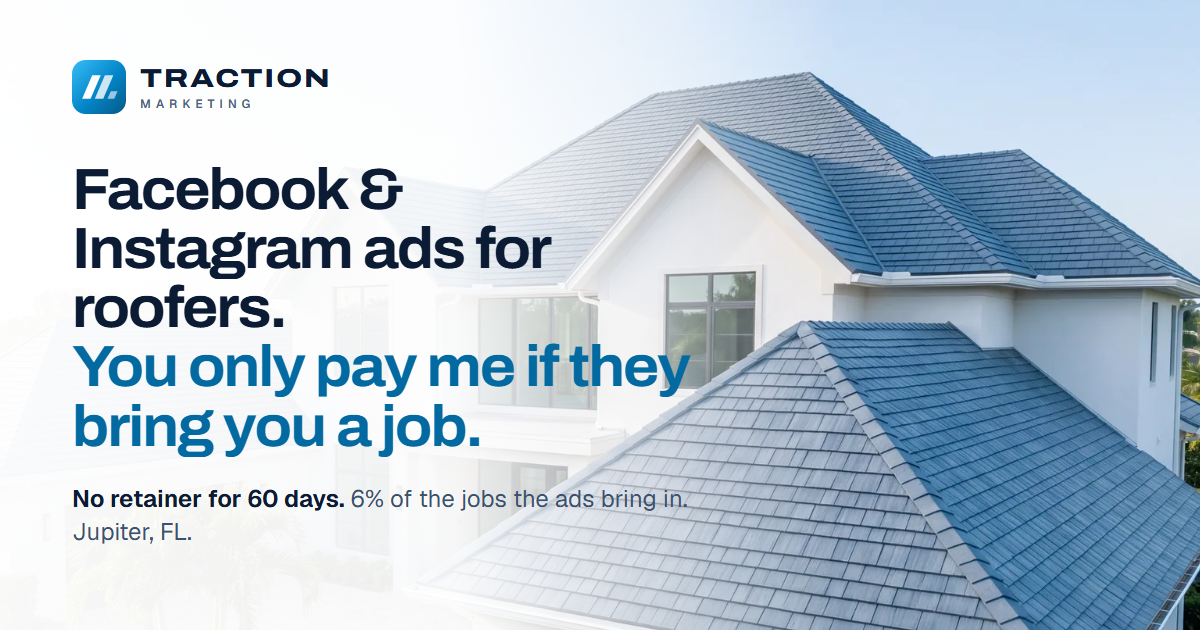
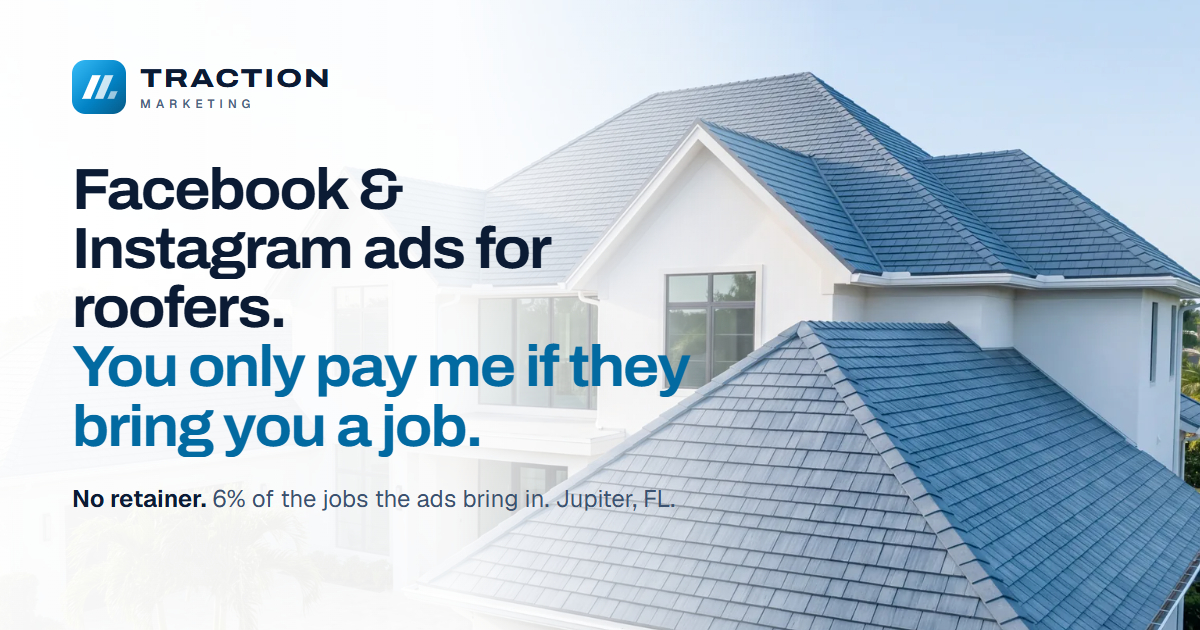
Pricing: remove the 60-day framing and the after-day-60 retainer

Changed region(s): [[0.1542, 0.754, 0.5858, 0.8143], [0.0617, 0.8143, 0.1542, 0.8746]]

diff --git a/index.html b/index.html
@@ -4,7 +4,7 @@
 <meta charset="utf-8">
 <meta name="viewport" content="width=device-width, initial-scale=1, viewport-fit=cover">
 <title>Traction Marketing | Facebook &amp; Instagram Ads for Roofing Companies</title>
-<meta name="description" content="Traction Marketing runs Meta ads (Facebook and Instagram) for roofing companies. No retainer for the first 60 days, just 6% of the jobs the ads bring you. Based in Jupiter, Florida.">
+<meta name="description" content="Traction Marketing runs Meta ads (Facebook and Instagram) for roofing companies. No retainer, no setup fee, just 6% of the jobs the ads bring you. Based in Jupiter, Florida.">
 <link rel="canonical" href="https://thetractionmedia.com/">
 <link rel="icon" href="/favicon.svg" type="image/svg+xml">
 <link rel="apple-touch-icon" href="/apple-touch-icon.png">
@@ -22,7 +22,7 @@
 <meta property="og:type" content="website">
 <meta property="og:site_name" content="Traction Marketing">
 <meta property="og:title" content="Facebook &amp; Instagram ads for roofers. You only pay me if they bring you a job.">
-<meta property="og:description" content="No retainer for the first 60 days. Just 6% of the jobs the ads bring in. Based in Jupiter, Florida.">
+<meta property="og:description" content="No retainer, no setup fee. Just 6% of the jobs the ads bring in. Based in Jupiter, Florida.">
 <meta property="og:url" content="https://thetractionmedia.com/">
 <meta property="og:image" content="https://thetractionmedia.com/og-image.png">
 <meta property="og:image:width" content="1200">
@@ -666,12 +666,11 @@ html:not(.js) .presets, html:not(.js) .range, html:not(.js) .calc-job-row { disp
           </div>
         </div>
         <div class="paper terms" data-sc-in data-sc-spotlight>
-          <h2 class="terms-title">Free for the first 60 days.</h2>
+          <h2 class="terms-title">Free. I only get paid on jobs.</h2>
           <dl>
             <div class="terms-row"><dt>Retainer and setup</dt><dd class="fig">$0</dd><dd class="say">No retainer, no setup fee.</dd></div>
             <div class="terms-row"><dt>My only cut</dt><dd class="fig">6%</dd><dd class="say">6% of the jobs the ads bring you. No jobs, no pay.</dd></div>
             <div class="terms-row"><dt>The ad budget</dt><dd class="fig">Yours</dd><dd class="say">You set it and pay it straight to Meta.</dd></div>
-            <div class="terms-row"><dt>After day 60</dt><dd class="fig">$2,000/mo</dd><dd class="say">Only if you want to keep going, plus the same 6%. Nothing renews on its own.</dd></div>
           </dl>
           <a class="text-link" href="#pricing">See the full pricing<svg class="icon ic-arrow" aria-hidden="true"><use href="#i-arrow"/></svg></a>
         </div>
@@ -834,18 +833,14 @@ html:not(.js) .presets, html:not(.js) .range, html:not(.js) .calc-job-row { disp
         <div class="paper est-paper" data-est-paper data-play="0.3" data-sc-spotlight>
           <p class="paper-head"><span>Estimate</span><span>Traction Marketing &rarr; your roofing company</span></p>
           <div class="pline" style="--i:0">
-            <span class="pline-k">Days 1 to 60<small>$0 retainer. No setup fee.</small></span>
+            <span class="pline-k">My only cut<small>$0 retainer. No setup fee.</small></span>
             <span class="pline-v big">6%<small>of jobs the ads bring you</small></span>
           </div>
           <div class="pline" style="--i:1">
-            <span class="pline-k">After day 60, only if you want to keep going<small>Nothing renews on its own.</small></span>
-            <span class="pline-v">$2,000&nbsp;/&nbsp;month<small>+ the same 6%</small></span>
-          </div>
-          <div class="pline" style="--i:2">
             <span class="pline-k">The ad budget<small>The one cost on your side, separate from my 6%.</small></span>
             <span class="pline-v">Yours<small>paid to Meta</small></span>
           </div>
-          <div class="pline" id="calc" style="--i:3">
+          <div class="pline" id="calc" style="--i:2">
             <span class="pline-k">What 6% looks like<small>Pick a job size and see my cut.</small></span>
             <span class="pline-v"><span class="calc-label">My 6%</span><output class="calc-fee" id="fee-out" for="job" aria-live="off">$720</output></span>
             <div class="calc-job-row"><label class="calc-label" for="job">Job from an ad</label><output class="calc-job" id="job-out" for="job" aria-live="off">$12,000</output></div>
@@ -873,16 +868,12 @@ html:not(.js) .presets, html:not(.js) .range, html:not(.js) .calc-job-row { disp
   </section>
 
   <!-- 7 · ASK ME: the details in plain words, who I am, and what roofers usually ask -->
-  <section class="ask" id="about" data-sc-act="flow" data-sc-drift="#F3F8FE" data-slip-stamp="cut after">
+  <section class="ask" id="about" data-sc-act="flow" data-sc-drift="#F3F8FE" data-slip-stamp="cut">
     <div class="sc-wrap">
       <div class="fine" data-sc-in data-sc-stagger="60">
         <div class="fine-row">
-          <h3>Days 1 to 60</h3>
+          <h3>No jobs, no pay</h3>
           <p>If the ads don’t bring you a job, I don’t make a dollar. You don’t have to take my word for anything: the ads have to earn it.</p>
-        </div>
-        <div class="fine-row">
-          <h3>After day 60, only if you want to keep going</h3>
-          <p>If it’s working and you want to keep going, this is what it costs. If it’s not, you just stop. By then you’ll have 60 days of real numbers to decide with.</p>
         </div>
         <div class="fine-row">
           <h3>The ad budget</h3>
@@ -930,10 +921,6 @@ html:not(.js) .presets, html:not(.js) .range, html:not(.js) .calc-job-row { disp
             <div class="answer"><p>You decide. At the sit-down we work it out from your own numbers: what a job is worth to you and how many more you can take on. You can raise it, lower it or stop it anytime.</p></div>
           </details>
           <details>
-            <summary><span class="q">What happens after 60 days?</span><span class="pm" aria-hidden="true"></span></summary>
-            <div class="answer"><p>If it’s working and you want to keep going, it’s $2,000 a month plus the same 6%. If it’s not, you just stop. Nothing renews automatically. It only continues if you say so.</p></div>
-          </details>
-          <details>
             <summary><span class="q">I tried Facebook ads before and got junk leads.</span><span class="pm" aria-hidden="true"></span></summary>
             <div class="answer"><p>That happens a lot, and it’s usually the form. The default one is so easy that people tap through it without meaning it. I use the version that makes them review their info and answer a couple of questions about the roof. You get fewer leads, but they’re real.</p></div>
           </details>
@@ -973,7 +960,7 @@ html:not(.js) .presets, html:not(.js) .range, html:not(.js) .calc-job-row { disp
         </div>
         <div class="paper sign-slip" role="group" data-play="0.5" data-sc-spotlight aria-label="Your estimate, totalled">
           <p class="paper-head"><span>Estimate</span><span>Total</span></p>
-          <div class="pline"><span class="pline-k">Retainer, days 1 to 60</span><span class="pline-v">$0</span></div>
+          <div class="pline"><span class="pline-k">Retainer</span><span class="pline-v">$0</span></div>
           <div class="pline"><span class="pline-k">Setup fee</span><span class="pline-v">$0</span></div>
           <div class="pline"><span class="pline-k">Ad budget</span><span class="pline-v">Yours, paid to Meta</span></div>
           <div class="pline keep"><span class="pline-k">My cut</span><span class="pline-v" data-cut-text>6% of jobs the ads bring you</span></div>
@@ -1011,13 +998,12 @@ html:not(.js) .presets, html:not(.js) .range, html:not(.js) .calc-job-row { disp
   <div class="slip-sheet" id="slip-sheet">
     <p class="slip-head"><span>Estimate</span><span>Your roofing company</span></p>
     <ol class="slip-lines">
-      <li data-line="retainer" style="--i:0"><a href="#intro"><span>Retainer, days 1 to 60</span><b>$0</b></a></li>
+      <li data-line="retainer" style="--i:0"><a href="#intro"><span>Retainer</span><b>$0</b></a></li>
       <li data-line="setup" style="--i:1"><a href="#intro"><span>Setup fee</span><b>$0</b></a></li>
       <li data-line="budget" style="--i:2"><a href="#pricing"><span>Ad budget</span><b>Yours, paid to Meta</b></a></li>
       <li data-line="leads" style="--i:3"><a href="#first"><span>Your leads</span><b>Go to you, nobody else</b></a></li>
       <li data-line="account" style="--i:4"><a href="#how"><span>Ad account</span><b>Stays yours</b></a></li>
       <li data-line="cut" style="--i:5"><a href="#pricing"><span>My cut</span><b data-cut-text>6% of jobs the ads bring you</b></a></li>
-      <li data-line="after" style="--i:6"><a href="#pricing"><span>After day 60</span><b>Only if you want to keep going</b></a></li>
     </ol>
     <p class="slip-total"><span>No jobs from the ads</span><b>$0</b></p>
   </div>
@@ -1201,7 +1187,7 @@ document.querySelectorAll('.skel').forEach(function (el) {
     onEst = on;
     if (on) {
       var fly = !filed && !calm && !phone.matches && slip.classList.contains('on') && !slip.classList.contains('away');
-      stamp(['cut', 'after']);
+      stamp(['cut']);
       if (fly) {
         filed = true;
         slip.classList.add('hush'); fileInto(); tuck();
